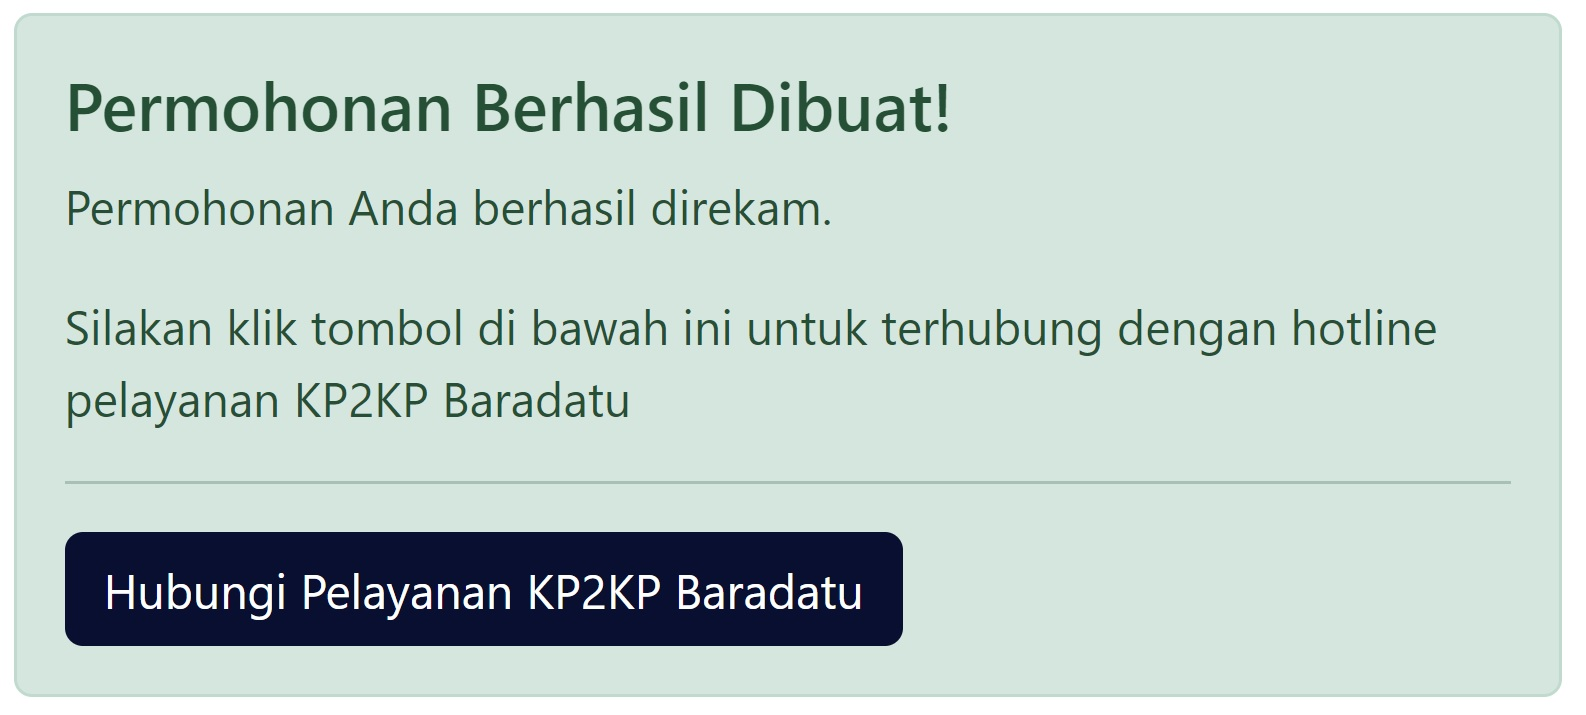
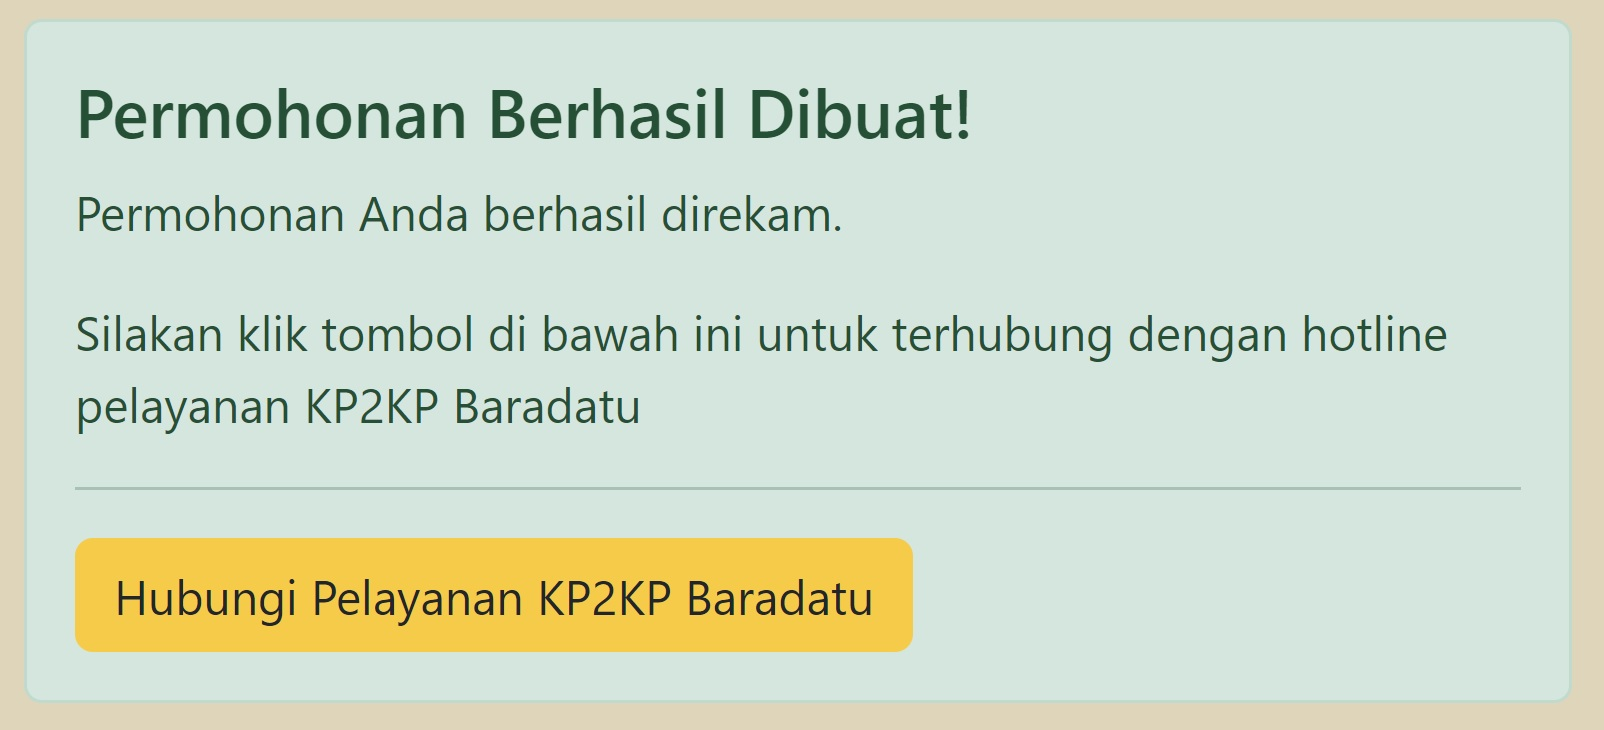
kolom NOP

Changed region(s): [[0.0, 0.0, 1.0, 1.0]]

diff --git a/index.html b/index.html
@@ -18,6 +18,7 @@
   <body id="home">
     <!-- Navbar -->
     <nav class="navbar fixed-top navbar-expand-lg navbar-light bg-light">
+<img src="Img/LOGO LIBRA AI POLOS.png" width="50" />
       <a class="navbar-brand"><strong>LIBRA</strong></a>
       <button class="navbar-toggler" type="button" data-toggle="collapse" data-target="#navbarNav" aria-controls="navbarNav" aria-expanded="false" aria-label="Toggle navigation">
         <span class="navbar-toggler-icon"></span>
@@ -47,16 +48,16 @@
 
     <!-- Jumbotron -->
     <section class="jumbotron text-center">
-      <img src="img/logo libra circle (2).png" alt="LIBRA" width="200" />
-      <h1 class="display-4"><strong>LIBRA</strong></h1>
-      <p class="lead">Layanan Billing Online Baradatu.</p>
-      <svg xmlns="http://www.w3.org/2000/svg" viewBox="0 0 1440 320"><path fill="#070f32" fill-opacity="1" d="M0,160L11.4,154.7C22.9,149,46,139,69,154.7C91.4,171,114,213,137,224C160,235,183,213,206,186.7C228.6,160,251,128,274,138.7C297.1,149,320,203,343,213.3C365.7,224,389,192,411,160C434.3,128,457,96,480,101.3C502.9,107,526,149,549,149.3C571.4,149,594,107,617,106.7C640,107,663,149,686,181.3C708.6,213,731,235,754,245.3C777.1,256,800,256,823,229.3C845.7,203,869,149,891,149.3C914.3,149,937,203,960,229.3C982.9,256,1006,256,1029,245.3C1051.4,235,1074,213,1097,176C1120,139,1143,85,1166,53.3C1188.6,21,1211,11,1234,53.3C1257.1,96,1280,192,1303,197.3C1325.7,203,1349,117,1371,112C1394.3,107,1417,181,1429,218.7L1440,256L1440,320L1428.6,320C1417.1,320,1394,320,1371,320C1348.6,320,1326,320,1303,320C1280,320,1257,320,1234,320C1211.4,320,1189,320,1166,320C1142.9,320,1120,320,1097,320C1074.3,320,1051,320,1029,320C1005.7,320,983,320,960,320C937.1,320,914,320,891,320C868.6,320,846,320,823,320C800,320,777,320,754,320C731.4,320,709,320,686,320C662.9,320,640,320,617,320C594.3,320,571,320,549,320C525.7,320,503,320,480,320C457.1,320,434,320,411,320C388.6,320,366,320,343,320C320,320,297,320,274,320C251.4,320,229,320,206,320C182.9,320,160,320,137,320C114.3,320,91,320,69,320C45.7,320,23,320,11,320L0,320Z"></path></svg>
+      <img src="img/LOGO LIBRA PUTIH.png" alt="LIBRA" width="200" />
+      <h1 class="display-4 text-warning"><strong>LIBRA</strong></h1>
+      <p class="lead text-warning">Layanan Billing Online Baradatu</p>
+      <svg xmlns="http://www.w3.org/2000/svg" viewBox="0 0 1440 320"><path fill="#ffc91b" fill-opacity="1" d="M0,192L9.6,197.3C19.2,203,38,213,58,224C76.8,235,96,245,115,234.7C134.4,224,154,192,173,154.7C192,117,211,75,230,85.3C249.6,96,269,160,288,197.3C307.2,235,326,245,346,234.7C364.8,224,384,192,403,154.7C422.4,117,442,75,461,80C480,85,499,139,518,144C537.6,149,557,107,576,80C595.2,53,614,43,634,85.3C652.8,128,672,224,691,245.3C710.4,267,730,213,749,176C768,139,787,117,806,96C825.6,75,845,53,864,69.3C883.2,85,902,139,922,133.3C940.8,128,960,64,979,48C998.4,32,1018,64,1037,96C1056,128,1075,160,1094,154.7C1113.6,149,1133,107,1152,101.3C1171.2,96,1190,128,1210,170.7C1228.8,213,1248,267,1267,288C1286.4,309,1306,299,1325,250.7C1344,203,1363,117,1382,90.7C1401.6,64,1421,96,1430,112L1440,128L1440,320L1430.4,320C1420.8,320,1402,320,1382,320C1363.2,320,1344,320,1325,320C1305.6,320,1286,320,1267,320C1248,320,1229,320,1210,320C1190.4,320,1171,320,1152,320C1132.8,320,1114,320,1094,320C1075.2,320,1056,320,1037,320C1017.6,320,998,320,979,320C960,320,941,320,922,320C902.4,320,883,320,864,320C844.8,320,826,320,806,320C787.2,320,768,320,749,320C729.6,320,710,320,691,320C672,320,653,320,634,320C614.4,320,595,320,576,320C556.8,320,538,320,518,320C499.2,320,480,320,461,320C441.6,320,422,320,403,320C384,320,365,320,346,320C326.4,320,307,320,288,320C268.8,320,250,320,230,320C211.2,320,192,320,173,320C153.6,320,134,320,115,320C96,320,77,320,58,320C38.4,320,19,320,10,320L0,320Z"></path></svg>
 
     </section>
     <!-- Akhir Jumbotron -->
     <!-- About LIBRA -->
-    <section id="about"  style="background-color: #070f32">
-      <div class="container text-white" style="background-color: #070f32">
+    <section id="about"  style="background-color: #ffc91b">
+      <div class="container" style="background-color: #ffc91b">
         <div class="row text-center">
           <div class="col">
             <h2>Apa Itu LIBRA?</h2>
@@ -78,20 +79,15 @@
           </div>
         </div>
       </div>
-      <svg xmlns="http://www.w3.org/2000/svg" viewBox="0 0 1440 320">
-        <path
-          fill="#ffc91b"
-          fill-opacity="1"
-          d="M0,0L15,32C30,64,60,128,90,154.7C120,181,150,171,180,186.7C210,203,240,245,270,261.3C300,277,330,267,360,229.3C390,192,420,128,450,106.7C480,85,510,107,540,106.7C570,107,600,85,630,96C660,107,690,149,720,176C750,203,780,213,810,224C840,235,870,245,900,224C930,203,960,149,990,122.7C1020,96,1050,96,1080,128C1110,160,1140,224,1170,256C1200,288,1230,288,1260,272C1290,256,1320,224,1350,202.7C1380,181,1410,171,1425,165.3L1440,160L1440,320L1425,320C1410,320,1380,320,1350,320C1320,320,1290,320,1260,320C1230,320,1200,320,1170,320C1140,320,1110,320,1080,320C1050,320,1020,320,990,320C960,320,930,320,900,320C870,320,840,320,810,320C780,320,750,320,720,320C690,320,660,320,630,320C600,320,570,320,540,320C510,320,480,320,450,320C420,320,390,320,360,320C330,320,300,320,270,320C240,320,210,320,180,320C150,320,120,320,90,320C60,320,30,320,15,320L0,320Z"
-        ></path>
-      </svg>
+      <svg xmlns="http://www.w3.org/2000/svg" viewBox="0 0 1440 320"><path fill="#424007" fill-opacity="1" d="M0,160L10,149.3C20,139,40,117,60,106.7C80,96,100,96,120,90.7C140,85,160,75,180,85.3C200,96,220,128,240,165.3C260,203,280,245,300,218.7C320,192,340,96,360,53.3C380,11,400,21,420,42.7C440,64,460,96,480,106.7C500,117,520,107,540,117.3C560,128,580,160,600,192C620,224,640,256,660,272C680,288,700,288,720,288C740,288,760,288,780,277.3C800,267,820,245,840,229.3C860,213,880,203,900,197.3C920,192,940,192,960,181.3C980,171,1000,149,1020,138.7C1040,128,1060,128,1080,117.3C1100,107,1120,85,1140,106.7C1160,128,1180,192,1200,197.3C1220,203,1240,149,1260,112C1280,75,1300,53,1320,48C1340,43,1360,53,1380,74.7C1400,96,1420,128,1430,144L1440,160L1440,320L1430,320C1420,320,1400,320,1380,320C1360,320,1340,320,1320,320C1300,320,1280,320,1260,320C1240,320,1220,320,1200,320C1180,320,1160,320,1140,320C1120,320,1100,320,1080,320C1060,320,1040,320,1020,320C1000,320,980,320,960,320C940,320,920,320,900,320C880,320,860,320,840,320C820,320,800,320,780,320C760,320,740,320,720,320C700,320,680,320,660,320C640,320,620,320,600,320C580,320,560,320,540,320C520,320,500,320,480,320C460,320,440,320,420,320C400,320,380,320,360,320C340,320,320,320,300,320C280,320,260,320,240,320C220,320,200,320,180,320C160,320,140,320,120,320C100,320,80,320,60,320C40,320,20,320,10,320L0,320Z"></path></svg>
+
     </section>
 
     <!-- Akhir About LIBRA -->
 
     <!-- Projects tutorial -->
     <section id="projects">
-      <div class="container">
+      <div class="container text-white">
         <div class="row text-center mb-3">
           <div class="col">
             <h2>Alur Permohonan Pembuatan Kode Billing Melalui LIBRA</h2>
@@ -136,13 +132,8 @@
           </div>
         </div>
       </div>
-      <svg xmlns="http://www.w3.org/2000/svg" viewBox="0 0 1440 320">
-        <path
-          fill="#ffff"
-          fill-opacity="1"
-          d="M0,256L21.8,218.7C43.6,181,87,107,131,80C174.5,53,218,75,262,85.3C305.5,96,349,96,393,112C436.4,128,480,160,524,181.3C567.3,203,611,213,655,197.3C698.2,181,742,139,785,154.7C829.1,171,873,245,916,250.7C960,256,1004,192,1047,144C1090.9,96,1135,64,1178,58.7C1221.8,53,1265,75,1309,106.7C1352.7,139,1396,181,1418,202.7L1440,224L1440,320L1418.2,320C1396.4,320,1353,320,1309,320C1265.5,320,1222,320,1178,320C1134.5,320,1091,320,1047,320C1003.6,320,960,320,916,320C872.7,320,829,320,785,320C741.8,320,698,320,655,320C610.9,320,567,320,524,320C480,320,436,320,393,320C349.1,320,305,320,262,320C218.2,320,175,320,131,320C87.3,320,44,320,22,320L0,320Z"
-        ></path>
-      </svg>
+      <svg xmlns="http://www.w3.org/2000/svg" viewBox="0 0 1440 320"><path fill="#e0d5b7" fill-opacity="1" d="M0,160L10,144C20,128,40,96,60,117.3C80,139,100,213,120,218.7C140,224,160,160,180,128C200,96,220,96,240,122.7C260,149,280,203,300,224C320,245,340,235,360,202.7C380,171,400,117,420,96C440,75,460,85,480,85.3C500,85,520,75,540,112C560,149,580,235,600,256C620,277,640,235,660,186.7C680,139,700,85,720,58.7C740,32,760,32,780,53.3C800,75,820,117,840,149.3C860,181,880,203,900,197.3C920,192,940,160,960,128C980,96,1000,64,1020,74.7C1040,85,1060,139,1080,181.3C1100,224,1120,256,1140,234.7C1160,213,1180,139,1200,112C1220,85,1240,107,1260,133.3C1280,160,1300,192,1320,186.7C1340,181,1360,139,1380,122.7C1400,107,1420,117,1430,122.7L1440,128L1440,320L1430,320C1420,320,1400,320,1380,320C1360,320,1340,320,1320,320C1300,320,1280,320,1260,320C1240,320,1220,320,1200,320C1180,320,1160,320,1140,320C1120,320,1100,320,1080,320C1060,320,1040,320,1020,320C1000,320,980,320,960,320C940,320,920,320,900,320C880,320,860,320,840,320C820,320,800,320,780,320C760,320,740,320,720,320C700,320,680,320,660,320C640,320,620,320,600,320C580,320,560,320,540,320C520,320,500,320,480,320C460,320,440,320,420,320C400,320,380,320,360,320C340,320,320,320,300,320C280,320,260,320,240,320C220,320,200,320,180,320C160,320,140,320,120,320C100,320,80,320,60,320C40,320,20,320,10,320L0,320Z"></path></svg>
+
     </section>
 
     <!-- Akhir Project tutorial -->
@@ -190,22 +181,22 @@
 
             <div class="mb-3">
             <label for="jenisSetoran" class="form-label" id="name" name="jenis_setoran">Jenis Setoran</label>
-            <select name="jenis_setoran" class="form-control jenisSetoran selectFilter" required>
+            <select onchange="enableNOP(this)" name="jenis_setoran" class="form-control jenisSetoran selectFilter" required>
               <option value="" selected disabled hidden>--Pilih Jenis Setoran Pajak</option>
-              <option data-ref="masa21" data-belong="pph21">Masa (KJS: 100)</option>
-              <option data-ref="masa22" data-belong="pph22">Masa (KJS: 100)</option>
-              <option data-ref="apbn22" data-belong="pph22">Pemungutan oleh Bendaharawan APBN (KJS: 910)</option>
-              <option data-ref="apbd22" data-belong="pph22">Pemungutan oleh Bendaharawan APBD (KJS: 920)</option>
-              <option data-ref="desa22" data-belong="pph22">Pemungutan oleh Bendaharawan Dana Desa (KJS: 930)</option>
-              <option data-ref="masa23" data-belong="pph23">Masa (KJS: 100)</option>
-              <option data-ref="jasa23" data-belong="pph23">Jasa (KJS: 104)</option>
-              <option data-ref="jualTB" data-belong="pphFinal">Pengalihan Hak Tanah dan/atau Bangunan (KJS: 402)</option>
-              <option data-ref="sewaTB" data-belong="pphFinal">Sewa Tanah dan/atau Bangunan (KJS: 403)</option>
-              <option data-ref="umkm" data-belong="pphFinal">Final UMKM Bayar Sendiri (KJS: 420)</option>
-              <option data-ref="masaPPN" data-belong="ppnDN">Masa (KJS: 100)</option>
-              <option data-ref="apbnPPN" data-belong="ppnDN">Pemungutan oleh Bendaharawan APBN (KJS: 910)</option>
-              <option data-ref="apbdPPN" data-belong="ppnDN">Pemungutan oleh Bendaharawan APBD (KJS: 920)</option>
-              <option data-ref="desaPPN" data-belong="ppnDN">Pemungutan oleh Bendaharawan Dana Desa (KJS: 930)</option>
+              <option data-ref="masa21" data-belong="pph21" value="Masa (KJS: 100)">Masa (KJS: 100)</option>
+              <option data-ref="masa22" data-belong="pph22" value="Masa (KJS: 100)">Masa (KJS: 100)</option>
+              <option data-ref="apbn22" data-belong="pph22" value="Pemungutan oleh Bendaharawan APBN (KJS: 910)">Pemungutan oleh Bendaharawan APBN (KJS: 910)</option>
+              <option data-ref="apbd22" data-belong="pph22" value="Pemungutan oleh Bendaharawan APBD (KJS: 920)">Pemungutan oleh Bendaharawan APBD (KJS: 920)</option>
+              <option data-ref="desa22" data-belong="pph22" value="Pemungutan oleh Bendaharawan Dana Desa (KJS: 930)">Pemungutan oleh Bendaharawan Dana Desa (KJS: 930)</option>
+              <option data-ref="masa23" data-belong="pph23" value="Masa (KJS: 100)">Masa (KJS: 100)</option>
+              <option data-ref="jasa23" data-belong="pph23" value="Jasa (KJS: 104)">Jasa (KJS: 104)</option>
+              <option data-ref="jualTB" data-belong="pphFinal" value="Pengalihan Hak Tanah dan/atau Bangunan (KJS: 402)">Pengalihan Hak Tanah dan/atau Bangunan (KJS: 402)</option>
+              <option data-ref="sewaTB" data-belong="pphFinal" value="Sewa Tanah dan/atau Bangunan (KJS: 403)">Sewa Tanah dan/atau Bangunan (KJS: 403)</option>
+              <option data-ref="umkm" data-belong="pphFinal" value="Final UMKM Bayar Sendiri (KJS: 420)">Final UMKM Bayar Sendiri (KJS: 420)</option>
+              <option data-ref="masaPPN" data-belong="ppnDN" value="Masa (KJS: 100)">Masa (KJS: 100)</option>
+              <option data-ref="apbnPPN" data-belong="ppnDN" value="Pemungutan oleh Bendaharawan APBN (KJS: 910)" >Pemungutan oleh Bendaharawan APBN (KJS: 910)</option>
+              <option data-ref="apbdPPN" data-belong="ppnDN" value="Pemungutan oleh Bendaharawan APBD (KJS: 920)">Pemungutan oleh Bendaharawan APBD (KJS: 920)</option>
+              <option data-ref="desaPPN" data-belong="ppnDN" value="Pemungutan oleh Bendaharawan Dana Desa (KJS: 930)">Pemungutan oleh Bendaharawan Dana Desa (KJS: 930)</option>
             </select>
             <footer class="blockquote-footer">
               Informasi lebih lanjut tentang Jenis Setoran dapat dilihat <a href="https://drive.google.com/file/d/19VMbcOC5eN5iOTy5EYPDcxyp8x1RRS8a/view?usp=sharing" target="_blank">di sini</a>
@@ -241,6 +232,25 @@
               <div id="yearHelp" class="form-text">Masukkan tahun yang akan dibayarkan pajaknya</div>
                   </div>
 
+            <div class="mb-3 d-none" id="nomorobjekpajak">
+             <label for="nop" class="form-label">Nomor Objek Pajak (NOP)</label>
+                    <input style="background-color:#ffc91b" type="number" required class="form-control" aria-describedby="nopHelp" name="nop"/>
+                    <div id="nopHelp" class="form-text">Masukkan nomor objek pajak (NOP) yang ada di Surat Pemberitahuan Pajak Terutang (SPPT) PBB Anda!</div>
+                        </div>
+
+            <script type="text/javascript">
+              function enableNOP(answer) {
+                console.log(answer.value);
+                  if(answer.value == 'Pengalihan Hak Tanah dan/atau Bangunan (KJS: 402)' ){
+                    document.getElementById('nomorobjekpajak').classList.remove('d-none');                         
+              } else{
+                document.getElementById('nomorobjekpajak').classList.add('d-none')
+              }
+            }
+            </script>
+
+
+
              <div class="mb-3">
               <label for="jumlahSetor" class="form-label">Jumlah Setor</label>
               <input type="number" class="form-control" required id="jumlahSetor" rows="3" aria-describedby="jumlahSetorHelp" name="jumlah_setor"></input>
@@ -265,7 +275,7 @@
             <p>Permohonan Anda berhasil direkam.</p>
             <p>Silakan klik tombol di bawah ini untuk terhubung dengan hotline pelayanan KP2KP Baradatu</p>
             <hr>
-           <a id="tombolWA" target='_blank' class="btn btnWA text-white" style="background-color:#070f32">Hubungi Pelayanan KP2KP Baradatu</a>
+           <a id="tombolWA" target='_blank' class="btn btnWA" style="background-color:#ffc91b">Hubungi Pelayanan KP2KP Baradatu</a>
             </div>             
 
 
@@ -335,6 +345,7 @@
               jenis_setoran: 'JENIS SETORAN',
               masa_pajak: 'MASA PAJAK',
               tahun_pajak: 'TAHUN PAJAK',
+              nop:'NOP',
               jumlah_setor: 'JUMLAH SETOR',
               uraian: 'URAIAN',
               no_wa: 'NOMOR WA'

diff --git a/style.css b/style.css
@@ -1,17 +1,22 @@
-.jumbotron {
-  padding-top: 6rem;
-  background-color: #ffc91b;
+.d-none {
+  display: none;
 }
 
-.card {
-  size-adjust: 6rem;
+.jumbotron {
+  padding-top: 6rem;
+  background-color: #070f32;
 }
+
 .blockquote-footer {
   padding-top: 1rem;
 }
 
 #projects {
-  background-color: #ffc91b;
+  background-color: #424007;
+}
+
+#billing {
+  background-color: #e0d5b7;
 }
 
 section {
